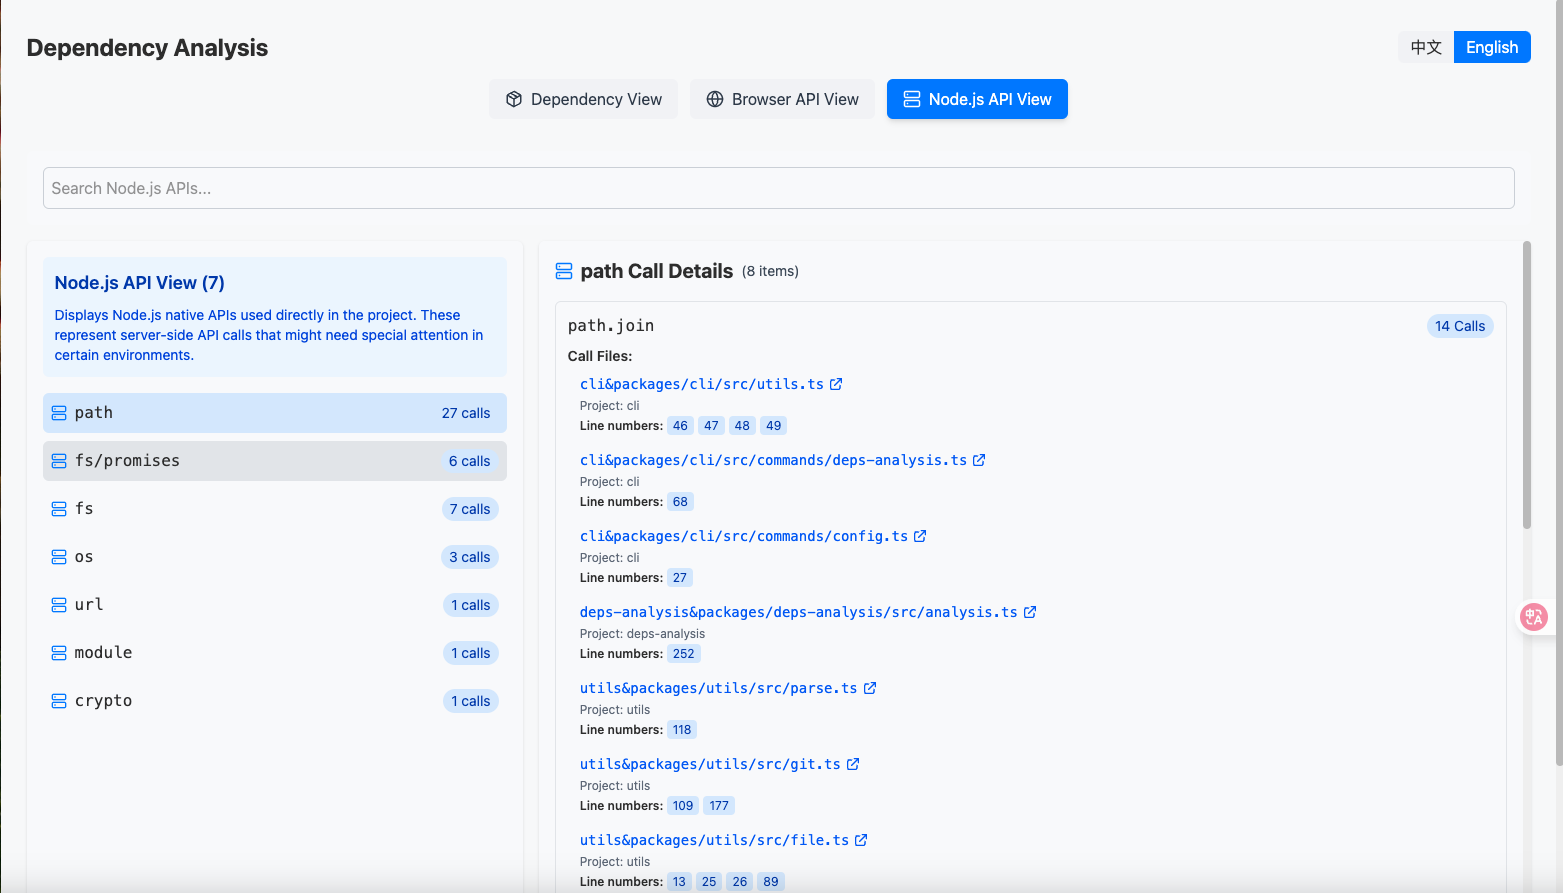
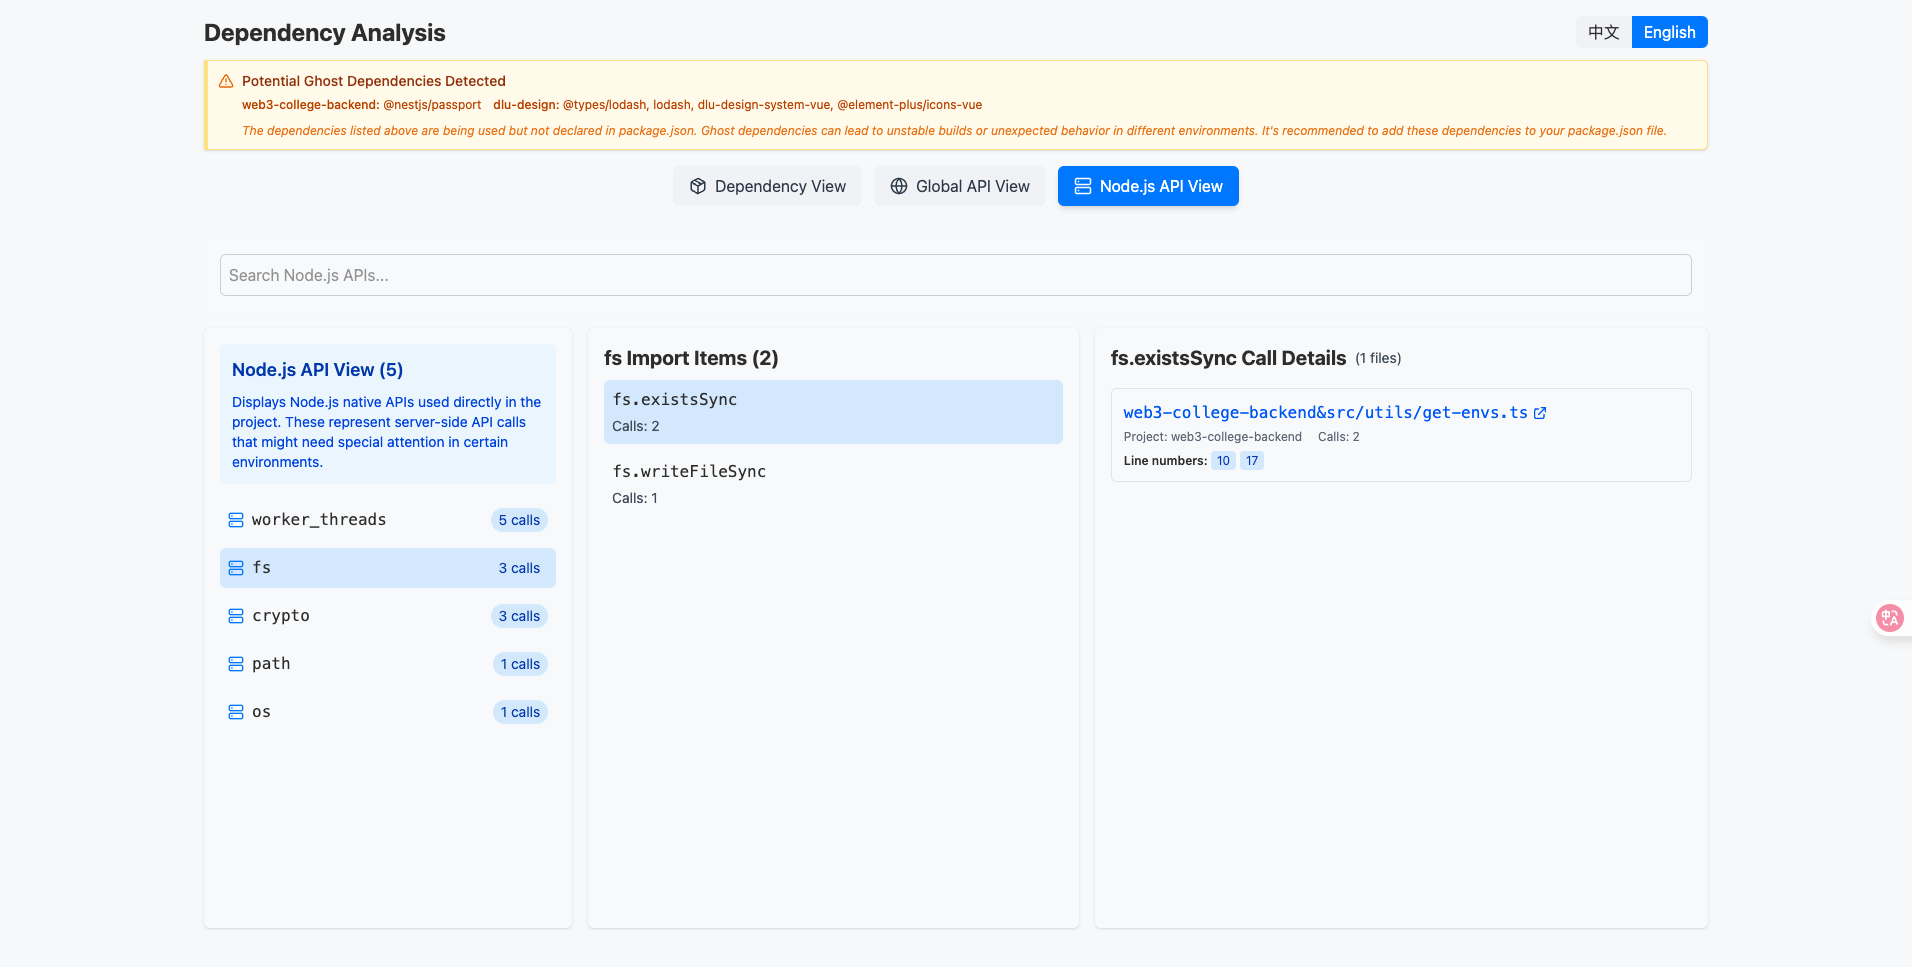
fix: cache error

diff --git a/packages/deps-analysis/src/analysis.ts b/packages/deps-analysis/src/analysis.ts
@@ -153,7 +153,7 @@ export class DepsAnalysis {
     const cache = this._cacheManager.loadCache();
     if (cache) {
       // 记录已更改的文件
-      await this._identifyChangedFiles(cache.fileHashes || []);
+      await this._identifyChangedFiles();
 
       if (cache.fileCache) {
         this.fileCache = cache.fileCache;
@@ -193,12 +193,18 @@ export class DepsAnalysis {
   }
   // 保存分析缓存
   async _saveAnalysisCache() {
-    const fileHashes: FileHash[] = [];
-    for (const item of this.scanEntrys) {
-      for (const file of item.parse) {
-        const hash = this._cacheManager.calculateFileHash(file);
-        fileHashes.push(hash);
+    let fileHashes;
+    if (!this._cacheManager.cache) {
+      fileHashes = [];
+      for (const item of this.scanEntrys) {
+        for (const file of item.parse) {
+          if (this._cacheManager.hasFileChanged(file)) {
+            fileHashes.push(this._cacheManager.calculateFileHash(file));
+          }
+        }
       }
+    } else {
+      fileHashes = this._cacheManager.cache.fileHashes;
     }
 
     const cache: AnalysisCache = {
@@ -211,12 +217,12 @@ export class DepsAnalysis {
     this._cacheManager.saveCache(cache);
   }
   // 记录已更改的文件
-  async _identifyChangedFiles(cachedHashes: FileHash[]) {
+  async _identifyChangedFiles() {
     this._changedFiles.clear();
 
     for (const item of this.scanEntrys) {
       for (const file of item.parse) {
-        if (this._cacheManager.hasFileChanged(file, cachedHashes)) {
+        if (this._cacheManager.hasFileChanged(file)) {
           this._changedFiles.add(file);
         }
       }
@@ -295,7 +301,7 @@ export class DepsAnalysis {
           if (this.incremental && this._cacheManager.hasCache && !this._changedFiles.has(element)) {
             continue;
           }
-          if (this.incremental && !this.fileCache[element]) {
+          if (this.incremental) {
             this.fileCache[element] = {
               importItemMap: {},
               apiMap: {},

diff --git a/packages/deps-analysis/src/cacheManager.ts b/packages/deps-analysis/src/cacheManager.ts
@@ -27,6 +27,8 @@ export interface AnalysisCache {
 export class CacheManager {
   private cachePath: string;
   public hasCache: boolean = false;
+  public cache: AnalysisCache | null = null;
+  public changedFiles: Set<string> = new Set(); // 变更的文件
 
   constructor(cacheDir: string) {
     this.cachePath = path.join(cacheDir, 'deps-analysis-cache.json');
@@ -46,12 +48,18 @@ export class CacheManager {
   }
 
   // 判断文件是否已更改
-  public hasFileChanged(filePath: string, cachedHashes: FileHash[]): boolean {
-    const cachedFile = cachedHashes.find((f) => f.path === filePath);
+  public hasFileChanged(filePath: string): boolean {
+    if (!this.cache) return true;
+    let cachedFile = this.cache.fileHashes.find((f) => f.path === filePath);
     if (!cachedFile) return true;
 
     const currentHash = this.calculateFileHash(filePath);
-    return currentHash.hash !== cachedFile.hash;
+    if (currentHash.hash !== cachedFile.hash) {
+      this.cache.fileHashes = this.cache.fileHashes.filter((f) => f.path !== filePath);
+      this.cache.fileHashes.push(currentHash);
+      return true;
+    }
+    return false;
   }
 
   // 加载缓存
@@ -65,7 +73,9 @@ export class CacheManager {
       this.hasCache = true;
 
       const cacheContent = fs.readFileSync(this.cachePath, 'utf-8');
-      return JSON.parse(cacheContent);
+      this.cache = JSON.parse(cacheContent);
+
+      return this.cache;
     } catch (error) {
       console.error('Failed to load analysis cache:', error);
       return null;

diff --git a/packages/cli/src/commands/deps-analysis.ts b/packages/cli/src/commands/deps-analysis.ts
@@ -7,12 +7,22 @@ import chalk from 'chalk';
 import ora from 'ora';
 import { getLocalization, Language } from '@t-care/utils';
 
-export async function depsAnalysisCommand() {
+interface DepsAnalysisOptions {
+  incremental?: boolean;
+  vue?: boolean;
+}
+
+export async function depsAnalysisCommand(options: DepsAnalysisOptions) {
   // 读取配置文件获取语言设置
   const config = await readConfig();
   const language = config.language as Language;
   const texts = getLocalization(language).depsAnalysis;
-
+  if (options.incremental) {
+    config.depsAnalysis.incremental = options.incremental;
+  }
+  if (options.vue) {
+    config.depsAnalysis.isScanVue = options.vue;
+  }
   console.log(chalk.bold.blue(`\n${texts.title}\n`));
 
   const spinner = ora(texts.loadingConfig).start();

diff --git a/packages/utils/src/i18n/en.ts b/packages/utils/src/i18n/en.ts
@@ -77,6 +77,8 @@ export const en = {
     languageOption: 'Output language, supports Chinese(zh) or English(en), can also be set in config file',
     initOption: 'Initialize config file (local|global) - JavaScript format only',
     showOption: 'Show current configuration',
+    incrementalOption: 'Incremental analysis',
+    vueOption: 'Scan Vue files',
   },
 
   // Dependency analysis related

diff --git a/packages/cli/src/care.ts b/packages/cli/src/care.ts
@@ -126,8 +126,10 @@ program
 program
   .command('deps-analysis')
   .description(texts.depsAnalysisCommand)
-  .action(async () => {
-    await depsAnalysisCommand();
+  .option('-i, --incremental', texts.incrementalOption, true)
+  .option('--vue', texts.vueOption, false)
+  .action(async (options) => {
+    await depsAnalysisCommand(options);
   });
 
 // 解析命令行参数前打印标语

diff --git a/packages/utils/src/i18n/zh.ts b/packages/utils/src/i18n/zh.ts
@@ -77,6 +77,8 @@ export const zh = {
     languageOption: '输出语言，支持中文(zh)或英文(en)，也可在配置文件中设置',
     initOption: '初始化配置文件 (local|global) - 仅支持JavaScript格式',
     showOption: '显示当前配置',
+    incrementalOption: '增量分析',
+    vueOption: '扫描Vue文件',
   },
 
   // 依赖分析相关

diff --git a/README_EN.md b/README_EN.md
@@ -15,10 +15,12 @@
 
 ## Installation
 
+Please install the latest version
+
 ```bash
-npm i @t-care/cli -g # global installation
-# or
-npm i @t-care/cli # local installation for npm usage
+npm i @t-care/cli@latest -g //global installation
+//or
+npm i @t-care/cli@latest //local installation for npm usage
 ```
 
 ## Usage
@@ -53,6 +55,10 @@ Options:
 care deps-analysis
 ```
 
+Options:
+- `-i --incremental` - Incremental analysis
+- `--vue` - Scan Vue files
+
 ### Manage Configuration
 
 Create config file:
@@ -77,11 +83,11 @@ care config --show
 
 ![Dependency Analysis](image/example/dependencyView.png)
 
-![Browser API Analysis](image/example/browserApiView.png)
+![Global API Analysis](image/example/globalApiView.png)
 
 ![Nodejs API Analysis](image/example/nodejsApiView.png)
 
-![Ghost Dependencies Warn](image/example/ghostDependencies.png)
+![Ghost Dependencies Warning](image/example/ghostDependencies.png)
 
 ## Configuration
 
@@ -112,7 +118,7 @@ Configuration files use JavaScript format and are supported in the following loc
 ```javascript
 export default {
   openaiKey: 'your_api_key_here',
-  model: 'gpt-4o-mini',
+  model: 'gpt-4o-mini', //Currently only supports OpenAI models
   detailed: false,
   focus: 'all',
   excludeExtensions: ['.json', '.md'],
@@ -144,6 +150,12 @@ Environment variable setting (optional, takes precedence over config file):
 ```bash
 export OPENAI_API_KEY=your_api_key
 ```
+
+## Known Issues
+
+Cannot parse components from external dependencies used in Vue projects.
+
+Global API detection is not perfectly accurate and may incorrectly identify APIs that are used in a project without being imported as global APIs.
 
 ## Development
 

diff --git a/README.md b/README.md
@@ -15,10 +15,12 @@
 
 ## 安装
 
+请安装最新版本
+
 ```bash
-npm i @t-care/cli -g //全局安装
+npm i @t-care/cli@latest -g //全局安装
 //或
-npm i @t-care/cli //局部安装通过npm调用
+npm i @t-care/cli@latest //局部安装通过npm调用
 ```
 
 ## 使用方法
@@ -53,6 +55,10 @@ care inspect path/to/file1.js path/to/file2.js
 care deps-analysis
 ```
 
+选项：
+- `-i --incremental` - 是否增量分析
+- `--vue` - 是否扫描vue文件
+
 ### 管理配置
 
 创建配置文件：
@@ -77,7 +83,7 @@ care config --show
 
 ![依赖分析](image/example/dependencyView.png)
 
-![浏览器api分析](image/example/browserApiView.png)
+![全局api分析](image/example/globalApiView.png)
 
 ![nodejsApi分析](image/example/nodejsApiView.png)
 
@@ -112,7 +118,7 @@ care config --show
 ```javascript
 export default {
   openaiKey: 'your_api_key_here',
-  model: 'gpt-4o-mini',
+  model: 'gpt-4o-mini', //目前仅支持openai模型
   detailed: false,
   focus: 'all',
   excludeExtensions: ['.json', '.md'],
@@ -143,6 +149,12 @@ export default {
 ```bash
 export OPENAI_API_KEY=your_api_key
 ```
+
+## 已知问题
+
+无法解析vue项目中的从外部依赖的组件使用
+
+全局api判断不够准确 也有可能将项目中未导入但使用的api解析为全局api
 
 ## 开发
 

diff --git a/packages/cli/CHANGELOG.md b/packages/cli/CHANGELOG.md
@@ -1,5 +1,25 @@
 # @care/cli
 
+## 1.3.8
+
+### Patch Changes
+
+- fix cache error
+- Updated dependencies
+  - @t-care/deps-analysis@1.3.1
+  - @t-care/utils@1.2.7
+  - @t-care/core@1.3.7
+
+## 1.3.8-beta.0
+
+### Patch Changes
+
+- fix cache error
+- Updated dependencies
+  - @t-care/deps-analysis@1.3.1-beta.0
+  - @t-care/utils@1.2.7-beta.0
+  - @t-care/core@1.3.7-beta.0
+
 ## 1.3.7
 
 ### Patch Changes

diff --git a/packages/core/CHANGELOG.md b/packages/core/CHANGELOG.md
@@ -1,5 +1,21 @@
 # @care/core
 
+## 1.3.7
+
+### Patch Changes
+
+- Updated dependencies
+  - @t-care/deps-analysis@1.3.1
+  - @t-care/utils@1.2.7
+
+## 1.3.7-beta.0
+
+### Patch Changes
+
+- Updated dependencies
+  - @t-care/deps-analysis@1.3.1-beta.0
+  - @t-care/utils@1.2.7-beta.0
+
 ## 1.3.6
 
 ### Patch Changes

diff --git a/packages/deps-analysis/CHANGELOG.md b/packages/deps-analysis/CHANGELOG.md
@@ -1,5 +1,21 @@
 # @t-care/deps-analysis
 
+## 1.3.1
+
+### Patch Changes
+
+- fix cache error
+- Updated dependencies
+  - @t-care/utils@1.2.7
+
+## 1.3.1-beta.0
+
+### Patch Changes
+
+- fix cache error
+- Updated dependencies
+  - @t-care/utils@1.2.7-beta.0
+
 ## 1.3.0
 
 ### Minor Changes

diff --git a/packages/utils/CHANGELOG.md b/packages/utils/CHANGELOG.md
@@ -1,5 +1,17 @@
 # @care/utils
 
+## 1.2.7
+
+### Patch Changes
+
+- fix cache error
+
+## 1.2.7-beta.0
+
+### Patch Changes
+
+- fix cache error
+
 ## 1.2.6
 
 ### Patch Changes
